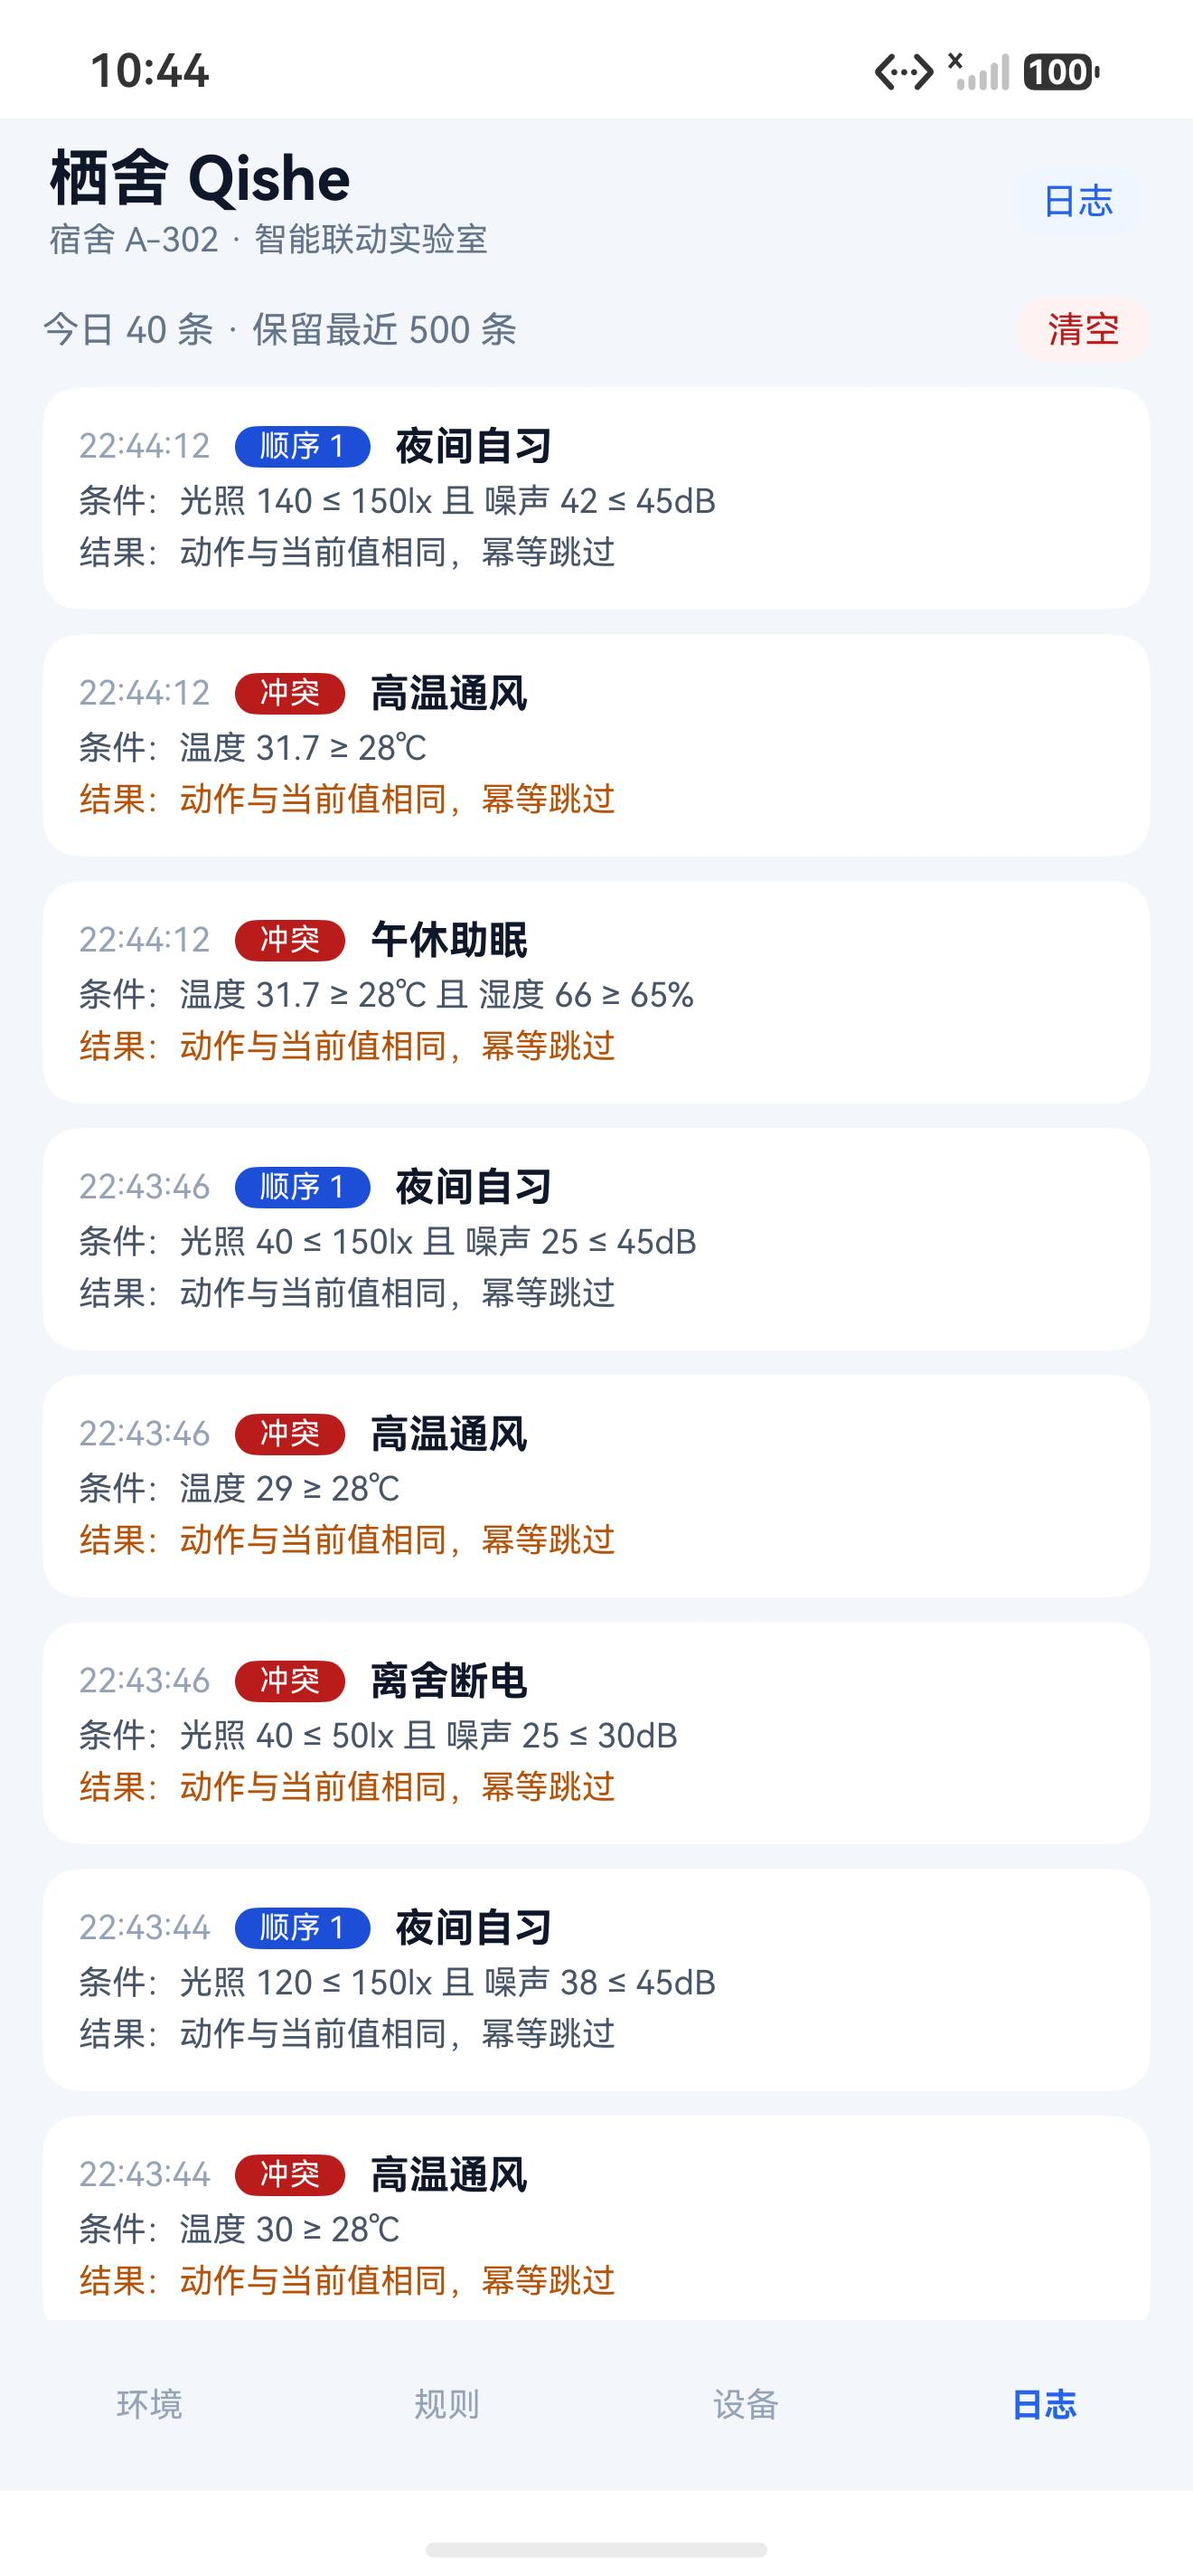
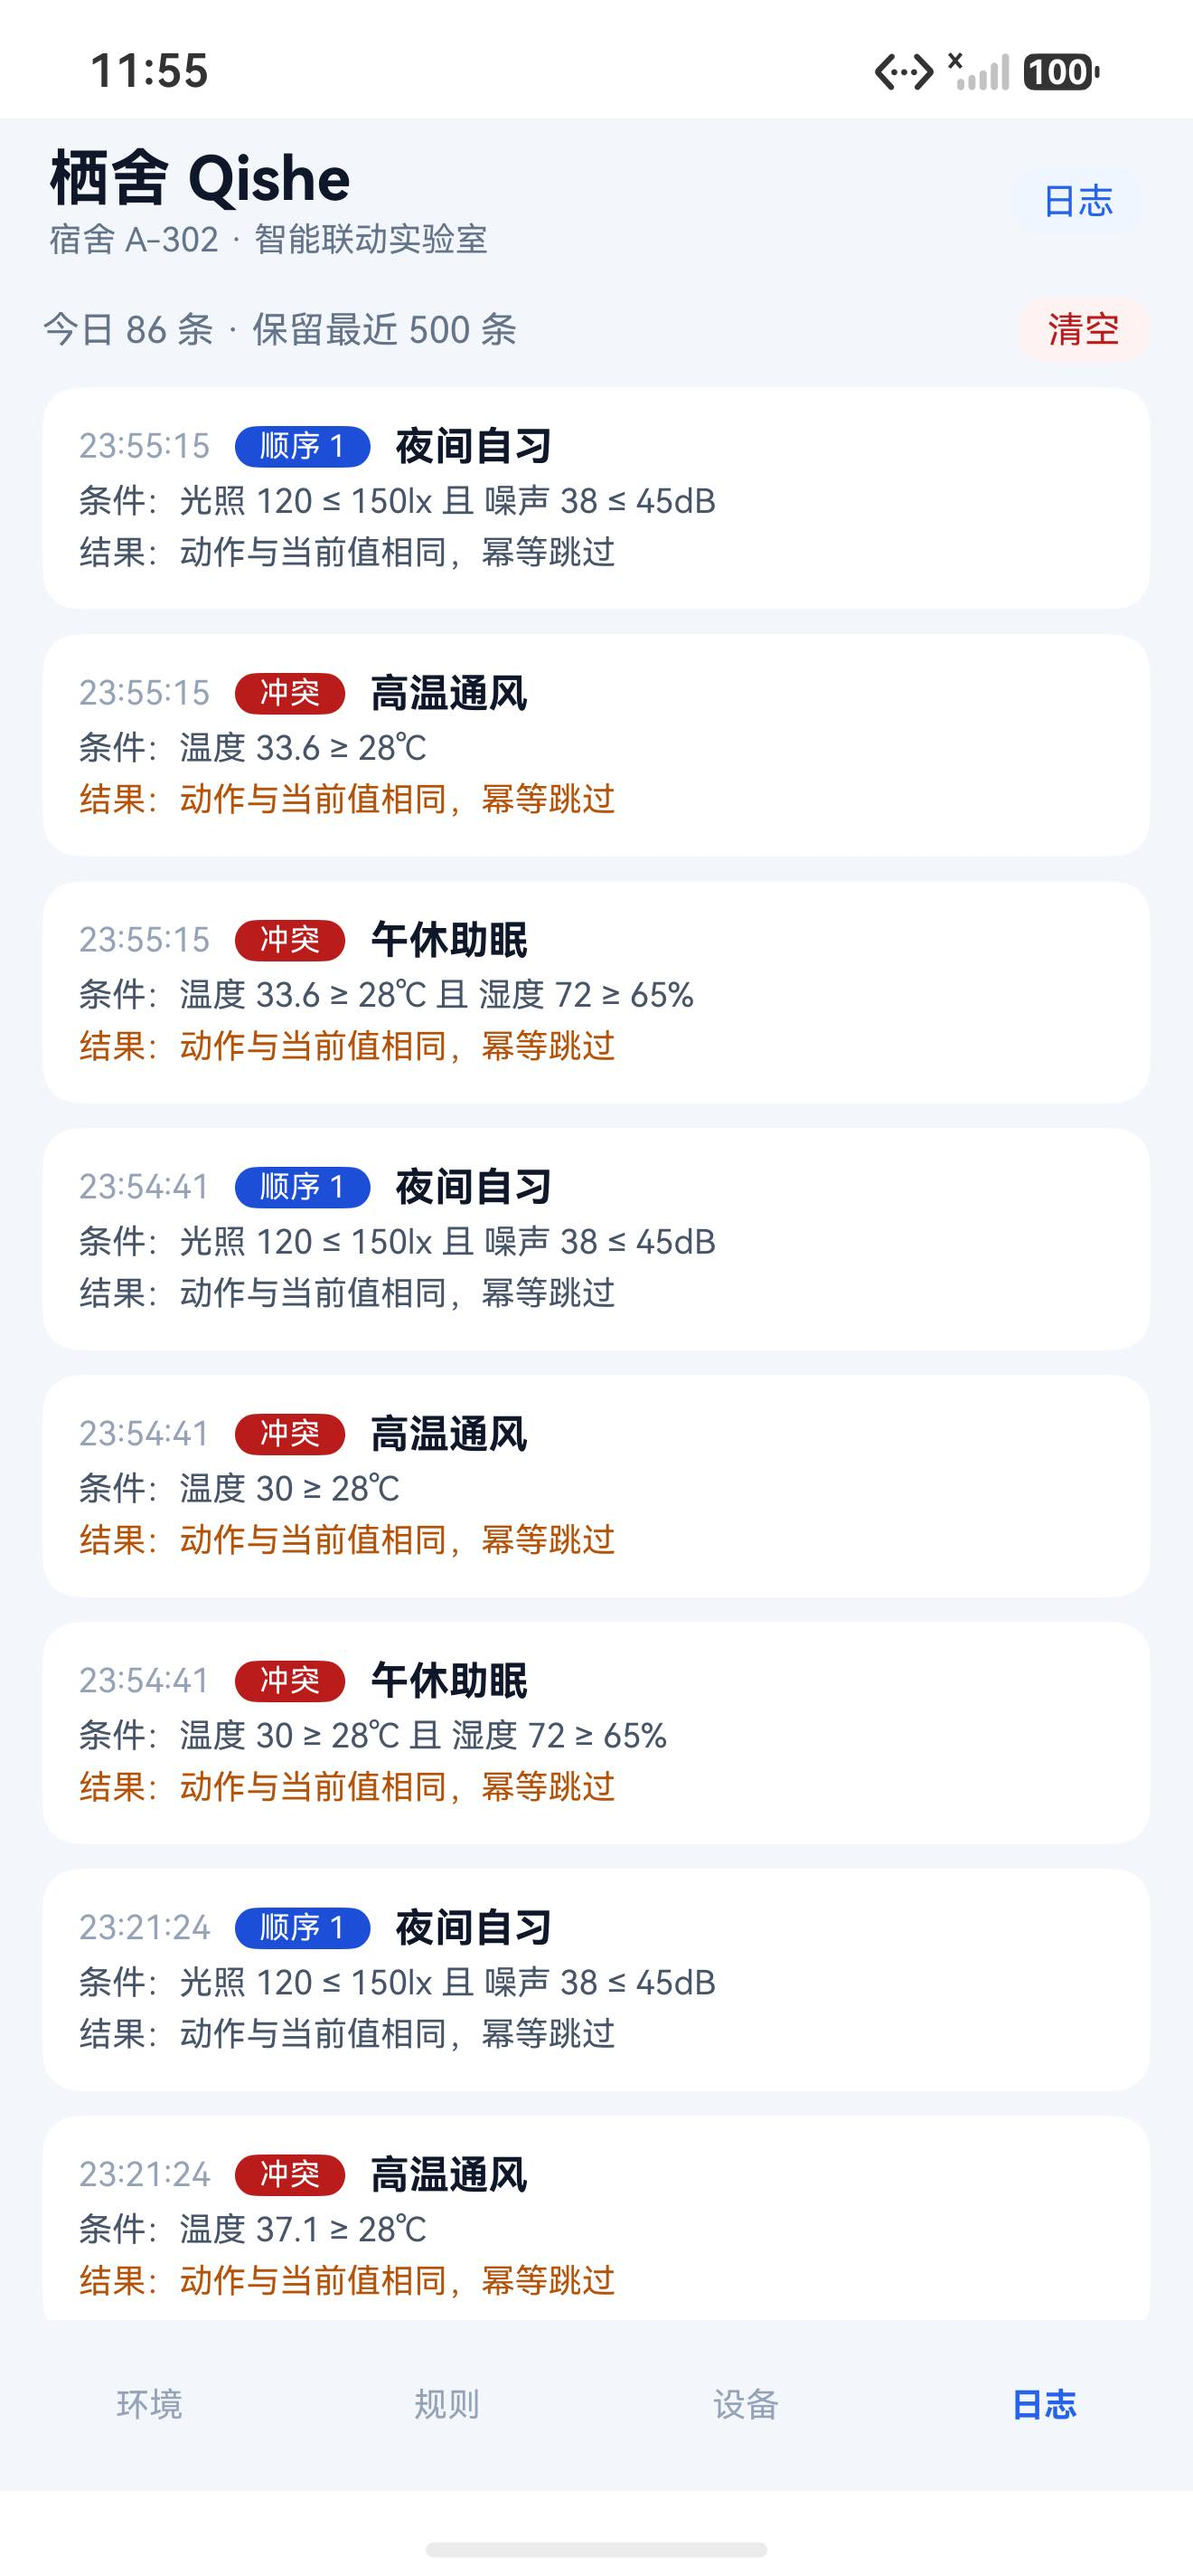
docs: 用模拟器实拍截图替换示意图，并补充冷启动恢复前后对比

diff --git a/README.md b/README.md
@@ -124,7 +124,8 @@ hvigorw --mode module -p module=entry@default test --no-daemon
 | `01-env-panel.jpeg` | 环境模拟台：四路滑块、设备现状、场景演练、冲突提示 |
 | `02-rule-list.jpeg` | 规则列表：6 条规则、优先级徽标、启停开关、冲突提示 |
 | `03-device-panel.jpeg` | 设备面板：5 台设备、开关与属性步进 |
-| `04-exec-log.jpeg` | 执行日志：顺序 1/2/3、条件文本、冲突与跳过标记 |
+| `04-exec-log.jpeg` | 执行日志：顺序 / 冲突 / 跳过三种标签与条件文本 |
+| `05-restore-after.jpeg` | 与 02 成对：`adb shell am force-stop` 后冷启动，仍显示"启用 4 条"、P75 仍停用 |
 
 ## 九、录屏
 
